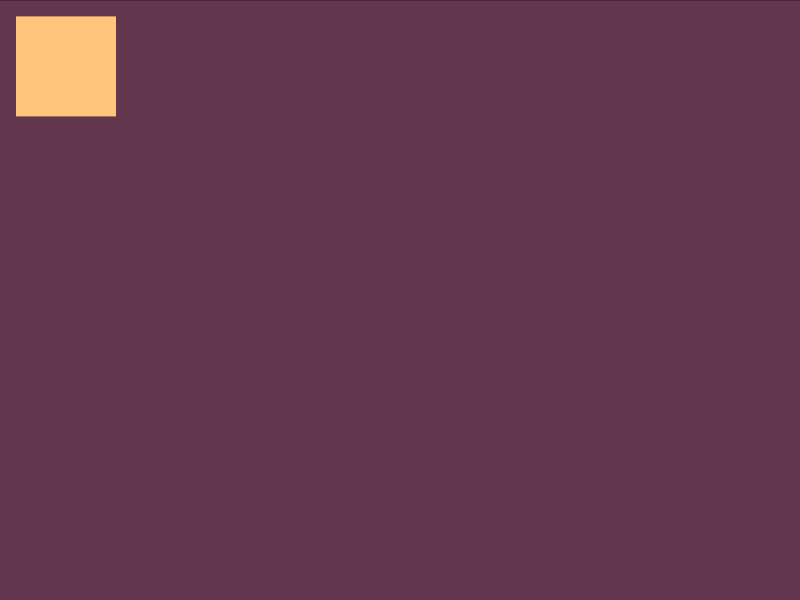
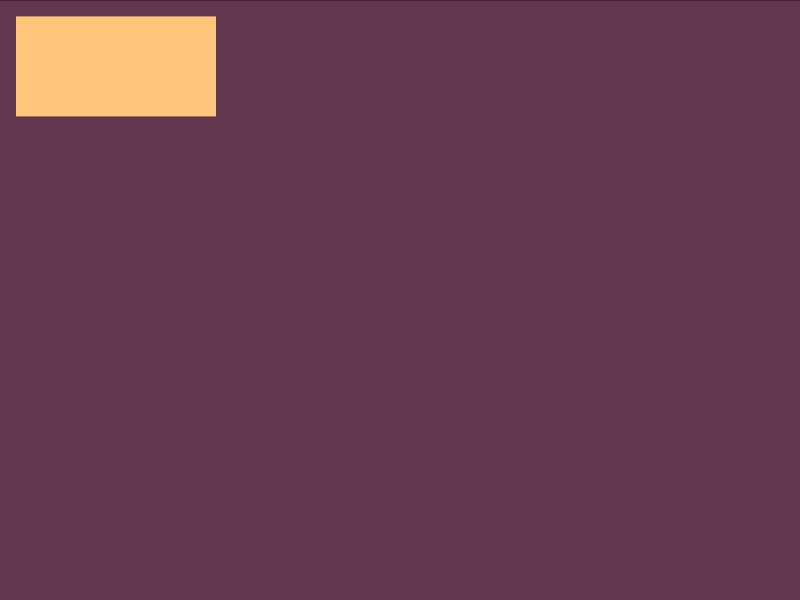
Score: 9.912345678910112e[phone redacted]% match) - CSSHub

Changed region(s): [[0.125, 0.0, 0.2812, 0.21]]

diff --git a/challenges/2-carrom/solution.html b/challenges/2-carrom/solution.html
@@ -4,7 +4,7 @@
     background: #62374e
   }
   div {
-    width: 50px;
+    width: 100px;
     height: 50px;
     background: #fdc57b;
   }